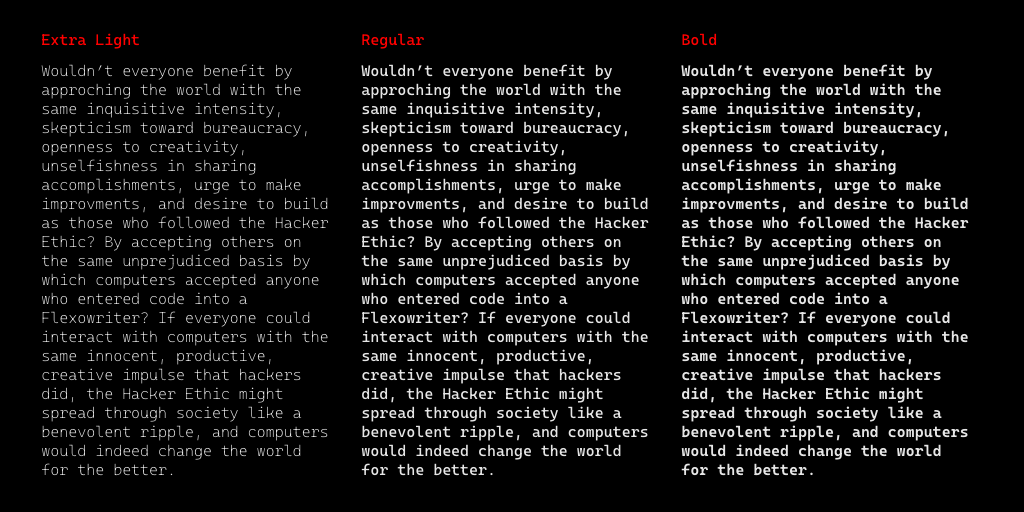
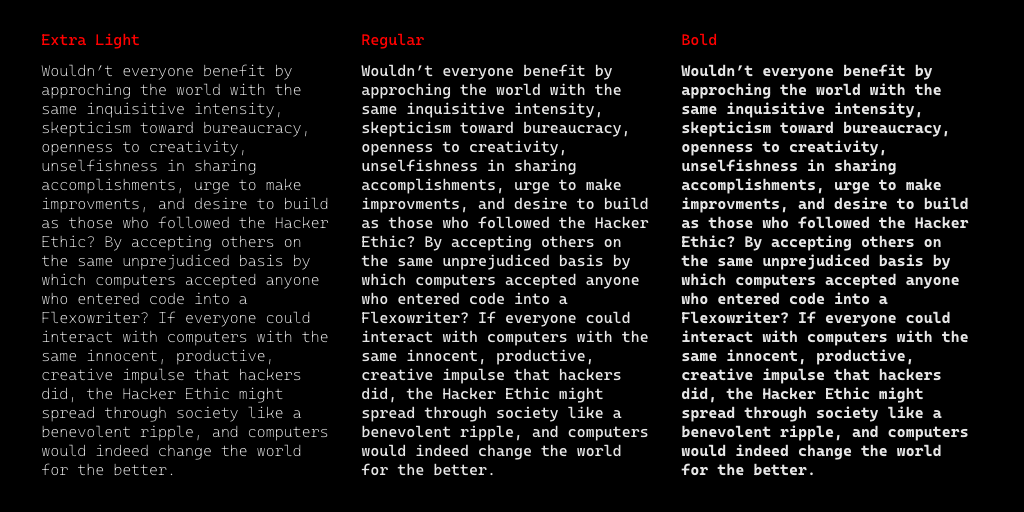
Update text specimen to fix a error

diff --git a/documentation/images/text-specimen.py b/documentation/images/text-specimen.py
@@ -61,7 +61,7 @@ fontVariations(wght=200)
 textBox(TEXT, (M*1.3, M*0, M*9, M*14))
 fontVariations(wght=400)
 textBox(TEXT, (M*11.3, M*0, M*9, M*14))
-fontVariations(wght=600)
+fontVariations(wght=700)
 textBox(TEXT, (M*21.3, M*0, M*9, M*14))
 
 fill(1,0,0)
